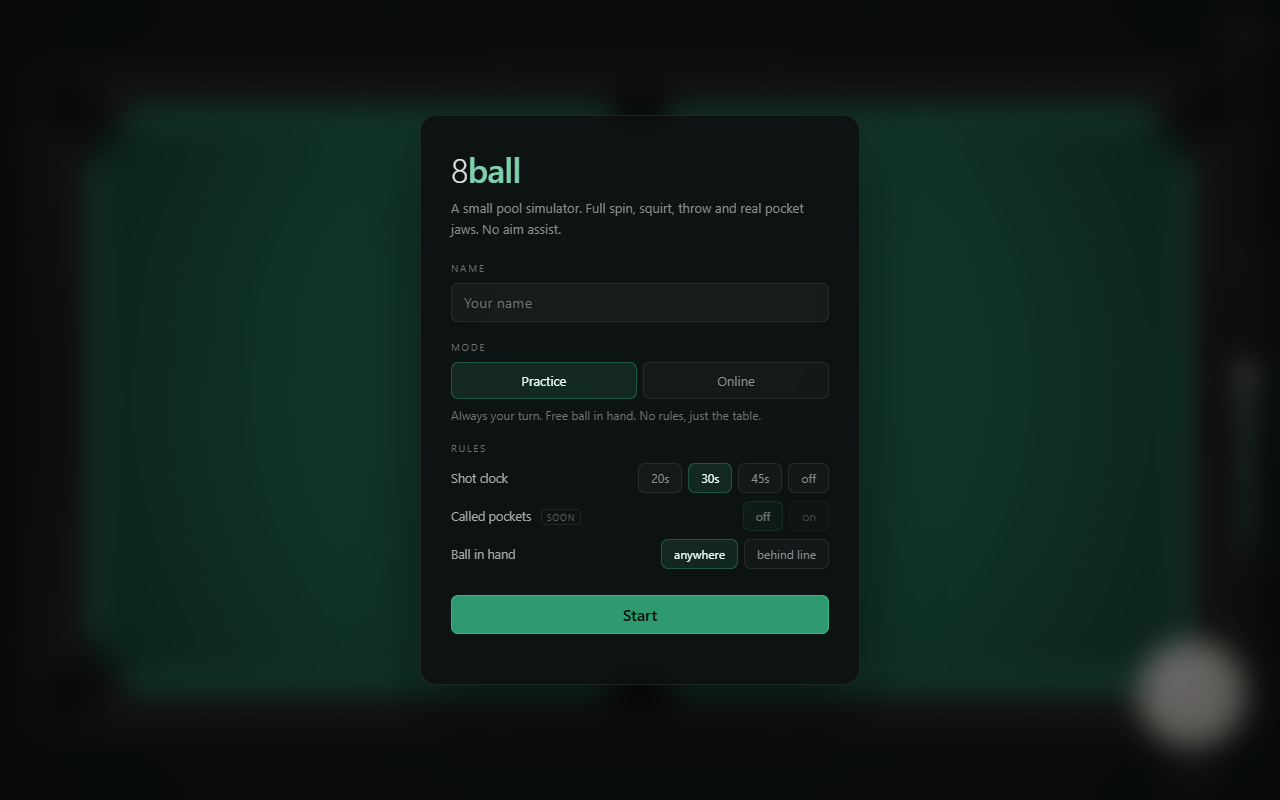
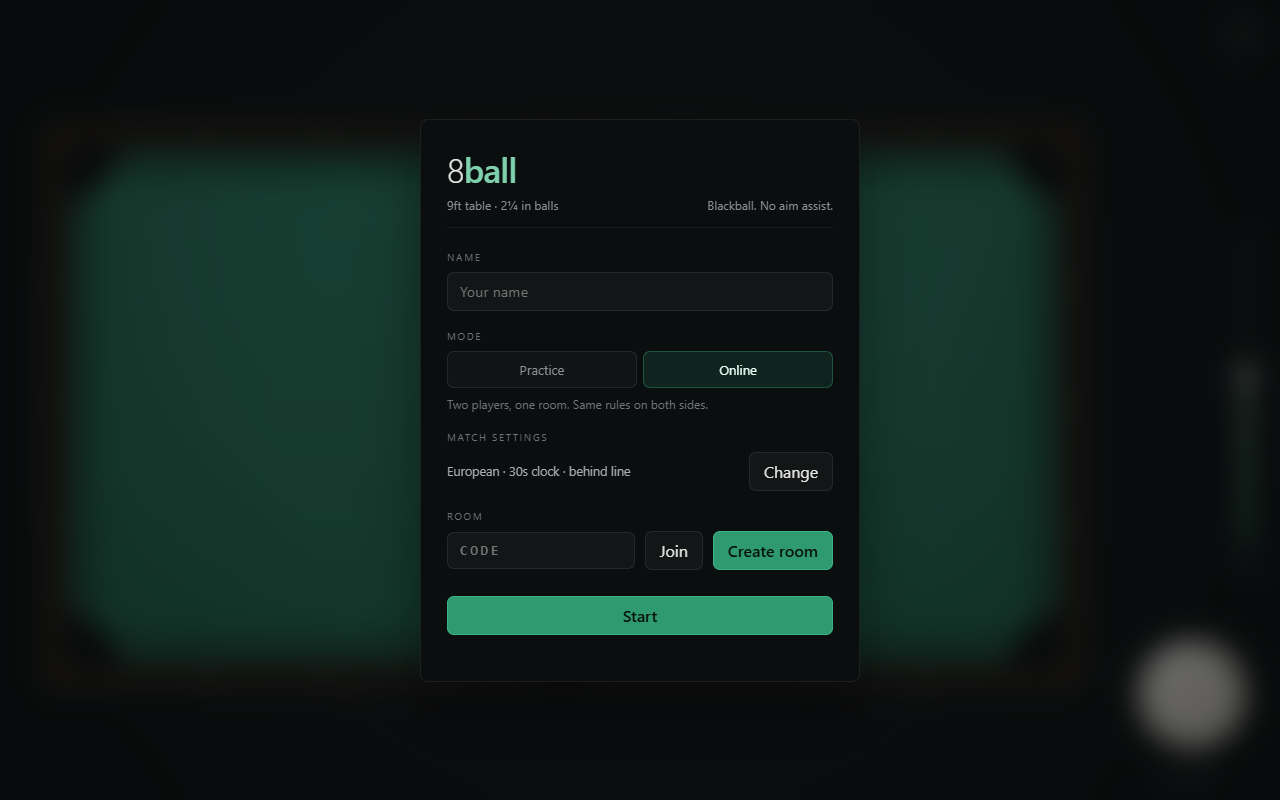
README and a curated set of previews
Rewrites the README around what the game is now: blackball by default, sound, the settings popup, and how the authoritative server works. Drops the handoff notes, which described bugs that are fixed, and removes stale preview images that no tool regenerated.

diff --git a/src/net/client.ts b/src/net/client.ts
@@ -3,6 +3,7 @@ import type { ClientMsg, ServerMsg } from '../../shared/protocol';
 /** Thin wrapper around a WebSocket. No reconnect, no retries: it is a game. */
 export class Net {
   private ws: WebSocket;
+  private queued: string[] = [];
   onMessage: (m: ServerMsg) => void = () => {};
   onOpen: () => void = () => {};
   onClose: () => void = () => {};
@@ -10,8 +11,15 @@ export class Net {
   constructor(url?: string) {
     const proto = location.protocol === 'https:' ? 'wss' : 'ws';
     this.ws = new WebSocket(url ?? `${proto}://${location.host}/ws`);
-    this.ws.onopen = () => this.onOpen();
-    this.ws.onclose = () => this.onClose();
+    this.ws.onopen = () => {
+      for (const message of this.queued) this.ws.send(message);
+      this.queued.length = 0;
+      this.onOpen();
+    };
+    this.ws.onclose = () => {
+      this.queued.length = 0;
+      this.onClose();
+    };
     this.ws.onmessage = (e) => {
       try {
         this.onMessage(JSON.parse(String(e.data)) as ServerMsg);
@@ -22,6 +30,8 @@ export class Net {
   }
 
   send(m: ClientMsg): void {
-    if (this.ws.readyState === WebSocket.OPEN) this.ws.send(JSON.stringify(m));
+    const message = JSON.stringify(m);
+    if (this.ws.readyState === WebSocket.OPEN) this.ws.send(message);
+    else if (this.ws.readyState === WebSocket.CONNECTING) this.queued.push(message);
   }
 }

diff --git a/README.md b/README.md
@@ -1,24 +1,24 @@
 # 8ball
 
-A top-down 8-ball pool game in the browser, with the physics written from
-scratch. No physics engine, no game framework, no rendering library.
+A top-down 8-ball pool game in the browser. The physics is written from
+scratch — no physics engine, no game framework, no rendering library.
 
 ![the table](docs/preview/ui-table.png)
 
-I started this to see if a browser game could get pool *physics* right rather
-than just look like pool. The things that matter are draw and follow, throw on a
-cut, squirt off the tip, and balls that rattle in the jaws instead of vanishing.
-All of that is in here.
+I built it to see how close a browser game could get to real pool *physics*,
+not just to something that looks like pool. Draw and follow, throw on a cut,
+squirt off the tip, balls that rattle in the jaws instead of disappearing — it
+is all in here, and none of it is faked with animation.
 
 ## Running it
 
 ```bash
 npm install
 npm run dev          # client on http://localhost:5173
-npm run server       # in another terminal, game server on :8787
+npm run server       # game server on :8787, in another terminal
 ```
 
-For a single process that serves both:
+Or one process for both:
 
 ```bash
 npm run build
@@ -27,59 +27,103 @@ npm run server       # http://localhost:8787
 
 Node 20+.
 
+## The menu
+
+![menu](docs/preview/ui-setup.png)
+
+Online is the default. Two players, one room: one creates it, the other joins
+with the 4-character code. Practice is a sandbox — always your turn, no fouls,
+the 8 comes back if you pot it.
+
+Match settings are one click away rather than spread over the screen:
+
+![settings](docs/preview/ui-settings.png)
+
 ## Playing
 
 | | |
 |---|---|
 | Aim | move the mouse |
-| Power | drag the bar on the right, or ↑ / ↓ |
-| Fine aim | ← / → (hold Shift for 0.1°) |
-| Spin | drag the little ball in the bottom right; double click to reset |
+| Power | the bar on the right, or ↑ / ↓ |
+| Fine aim | ← / →, hold Shift for smaller steps |
+| Spin | the ball in the bottom right, double click to reset |
 | Shoot | click, or Space |
 | Rotate table | the button top right, or `R` |
-| Ball in hand | `B` (practice only) |
-| New rack | `N` (practice only) |
-
-**Practice** is a sandbox. It is always your turn, there are no fouls, and the
-8 comes back on the table if you pot it.
-
-**Online** is two players in a room. One creates, the other joins with the
-4-character code.
+| Ball in hand | `B` (practice) |
+| New rack | `N` (practice) |
 
 ## Rules
 
-Picked on the setup screen and sent to the server when the room is made, so both
-players and the server are playing the same game.
+The ruleset is picked before the match and sent with the room, so the server
+and both players are refereeing the same game.
 
-Defaults: 8-ball, no called pockets, 30 second shot clock, ball in hand anywhere.
+**European (default)** — blackball.
 
-Fouls that are actually implemented: scratch, hitting nothing, wrong group
-first, no rail after contact, and hitting the 8 out of turn. On a foul the other
-player gets ball in hand.
+- The break has to pot a ball or drive two object balls to a cushion. Anything
+  less is a foul.
+- A foul gives the opponent **two visits**, not just the turn.
+- Ball in hand is behind the line by default.
+
+**American** — one visit, ball in hand anywhere, and a break only has to make
+contact with something.
+
+Fouls in both: scratch, hitting nothing, wrong group first, no rail after
+contact, hitting the 8 out of turn. Potting the 8 before clearing your group
+loses; potting it after clearing wins.
+
+## Sound
+
+Synthesised, no audio files. Every contact gets a voice of its own, with pitch
+and volume from its impact speed, scheduled against the audio clock the moment
+a shot is known. A break is 30-odd contacts in a third of a second, so voices
+are bucketed and capped per 60 ms window — uncapped it is a buzz, not a sound.
+
+Because it is scheduled rather than triggered per frame, a shot still plays
+correctly when the tab is in the background.
 
 ## How it works
 
-The short version: the table is simulated as an **event-driven analytic model**,
-not by stepping a physics world every frame.
+The table is an **event-driven analytic model**, not a physics world stepped
+every frame.
 
-Between collisions a ball's path is a closed-form equation. Sliding has a
-constant deceleration, rolling has a different constant deceleration, and the
-moment a ball stops sliding and starts rolling can be calculated exactly. So the
-simulator jumps from collision to collision instead of ticking at 60 Hz.
+Between collisions a ball's path is a closed-form equation: sliding has one
+constant deceleration, rolling has another, and the instant a ball stops
+sliding and starts rolling is calculable exactly. The simulator jumps from
+collision to collision instead of ticking at 60 Hz.
 
-That buys a few things:
+That means no tunnelling at break speed, no drift or jitter, no solver to tune,
+and identical results every run — which is what lets the server settle the
+final positions online.
 
-- no tunnelling, even at break speed (about 8 m/s, which is 4 cm per 60 Hz frame)
-- no drift or jitter, no solver to tune
-- the same shot always produces the same result, bit for bit
-- it is cheap, because most of the time nothing is moving
-
-Collisions are impulse-based. The normal impulse runs through both centres, so
-it cannot change spin. Everything interesting comes from the **tangential
-friction impulse** underneath it: that is what produces throw on a cut, spins the
-object ball, and makes english work off a cushion.
+Collisions are impulse-based. The normal impulse passes through both centres,
+so it cannot change spin. Everything interesting comes from the **tangential
+friction impulse** underneath it: throw on a cut, spin on the object ball,
+english off a cushion.
 
 There is a longer writeup in [docs/physics.md](docs/physics.md).
+
+![balls](docs/preview/balls.png)
+
+## Multiplayer
+
+The server is authoritative and runs the same simulation code as the client. A
+shot is about 60 bytes on the wire: aim, power, spin. The outcome is never sent
+by a client.
+
+```
+client sends { aim, spin, power }
+server simulates, judges, broadcasts { shot, state }
+both clients animate from the shot, then adopt the server's table
+```
+
+A client cannot report a fake result because it never reports one. It does
+simulate locally for instant feedback, and compares its result against the
+server's — if they ever differ it warns and lets the server's board win.
+
+One process, one port, no database. Rooms are a `Map`; a single interval sweeps
+every room's shot clock.
+
+![lobby](docs/preview/mp-lobby.png)
 
 ## Layout
 
@@ -87,9 +131,10 @@ There is a longer writeup in [docs/physics.md](docs/physics.md).
 src/core/          simulation, no DOM
   physics.ts       balls, collisions, the event loop
   table.ts         cushion segments, jaws, pockets
-  rules.ts         8-ball referee (takes a list of events, returns a verdict)
+  rules.ts         the referee (takes a list of events, returns a verdict)
   constants.ts     measured values for a 9ft table
 src/render/        canvas 2d: table and balls
+src/audio.ts       synthesised contact sounds
 src/ui/            spin picker
 src/app.ts         input, turn flow, playback
 server/            node + ws, authoritative
@@ -98,8 +143,8 @@ test/              physics, rules, rendering, multiplayer
 tools/             headless renderer used by the tests and the previews
 ```
 
-The simulation lives in `src/core` and imports nothing from the browser. The
-server imports the same files the client does.
+`src/core` imports nothing from the browser. The server imports the same files
+the client does.
 
 ## Tests
 
@@ -107,68 +152,39 @@ server imports the same files the client does.
 npm test
 ```
 
-41 tests across four files:
-
 - **physics** — determinism, draw vs stun vs follow, squirt direction, cushion
   rebound, pocketing, balls never leaving the table
-- **rules** — every foul, group assignment, the 8 winning and losing
+- **rules** — every foul, group assignment, the blackball break and the two
+  visits, the 8 winning and losing
 - **visual** — renders the table and all sixteen balls to a real canvas and
-  checks pixels: cloth is green, the pocket is dark, the cue ball is white, each
-  ball has its own colour and a readable number
-- **multiplayer** — starts a real server on a random port, connects two
-  WebSocket clients, plays a break, and checks that out-of-turn shots and
-  impossible spin are rejected
+  checks pixels
+- **multiplayer** — starts a real server, connects two WebSocket clients, plays
+  a break, and checks that out-of-turn shots and impossible spin are rejected
 
-The visual tests run in Node using `@napi-rs/canvas` with a tiny DOM shim, so
-they do not need a browser.
+The visual tests run in Node with a small DOM shim, so they need no browser.
 
-To write the images out and look at them yourself:
+To write the previews out yourself:
 
 ```bash
-npm run shot     # docs/preview/rack.png, break.png, english.png, balls.png
+npx tsx tools/render.ts        # table, balls, break
+node tools/browser-check.mjs   # the real app in Edge, plus console errors
 ```
 
-![the balls](docs/preview/balls.png)
-
-## Multiplayer
-
-The server is authoritative and it runs the same simulation code as the client.
-A shot is about 40 bytes on the wire; the outcome is never sent by a client.
-
-```
-client sends { aim, spin, power }
-server simulates, judges, broadcasts { shot, state }
-both clients animate from the shot, then adopt the server's table
-```
-
-That means a client cannot report a fake result, because it never reports one.
-The client still simulates locally for instant feedback and gets corrected by the
-next state message if it ever drifts.
-
-One process, one port, no database for live games. Rooms are a `Map` and a room
-clock sweeps the whole server once a second.
+![break](docs/preview/break-end.png)
 
 ## What is simplified
 
-Being honest about the edges, since this is meant to be readable rather than
-complete:
-
 - **No masse.** Sidespin does not curve the ball in flight, only off rails and
   through throw. Real masse needs cue elevation, which is not modelled.
-- **Pockets are a test, not geometry.** A ball is pocketed when its centre leaves
-  the playing rectangle. It can only do that through a gap between cushions, so
-  it works, but there is no proper pocket cut behind it.
-- **Jaws are circles.** They rattle balls out, which is the important part, but
-  they are not the angled cushion ends of a real table.
-- **Called pockets** exists in the rules engine but there is no UI for calling a
-  pocket yet, so the option is disabled in the menu.
+- **The table is 9ft with 2¼" balls** — American dimensions. Real blackball is
+  a 7ft table with 2" balls.
+- **Called pockets** exists in the referee but has no UI, so it is disabled.
 - **8 on the break** re-racks instead of spotting.
-- **No jump shots.** Cue elevation is not in the input model.
-- **No sound.** It would help a lot and it is not there.
+- **No jump shots**, and no push-out after a foul.
+- **Pocket depth is visual.** The ball is pocketed when its centre crosses the
+  mouth.
 
 ## If I kept going
 
-Sound first — collision-triggered, volume from impact speed. It does more for
-"this feels like pool" than another week of physics.
-
-Then a shot preview that is honest about squirt, and a proper called-pocket UI.
+Reconnection, so a dropped tab does not lose the room. Then a proper
+called-pocket UI, and cue elevation for masse and jump shots.
